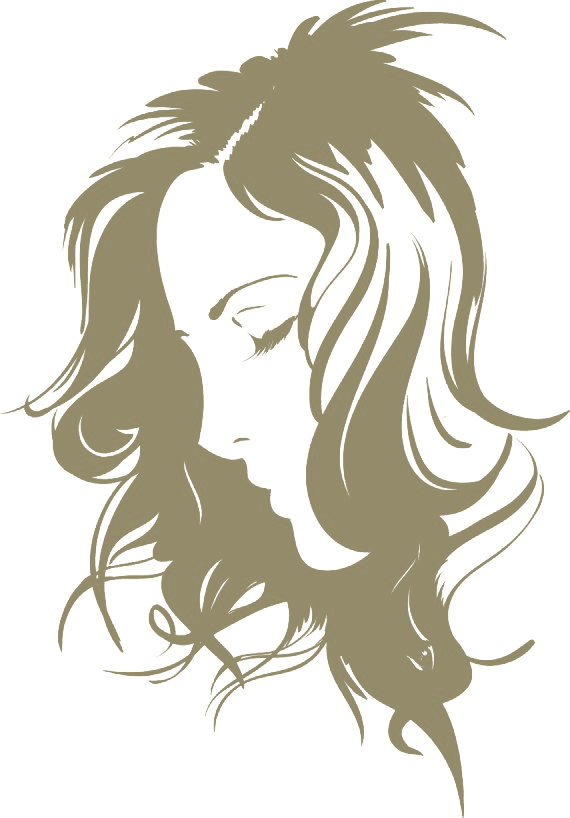
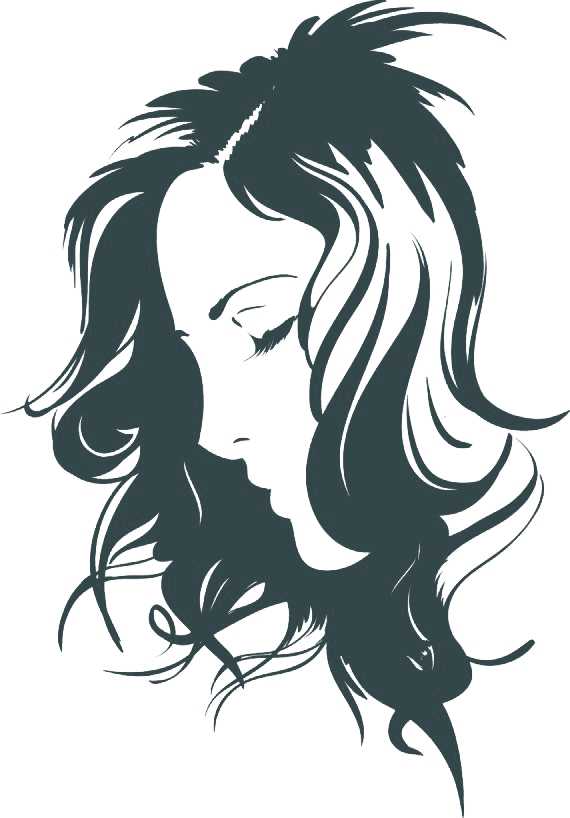
Main website version colors turned back

diff --git a/assets/css/color.css b/assets/css/color.css
@@ -1,11 +1,9 @@
 :root { 
 	/* Sets main color and gives an option to specify opacity */
 	/*--main-color: rgba( 94, 52, 52, var( --main-color-opacity, 1 ) ); */  
-	/*--main-color-rgb: 49, 68, 71; */
-	--main-color-rgb: 146, 138, 104; 
+	--main-color-rgb: 49, 68, 71; 
 	--main-color-opacity: 1; 
-	/*--secondary-color-rgb: 146, 138, 104; */ 
-	--secondary-color-rgb: 49, 68, 71;
+	--secondary-color-rgb: 146, 138, 104; 
 	--secondary-color-opacity: 1; 
 	--main-color: rgba( var( --main-color-rgb ), var( --main-color-opacity ) ); 
 	--secondary-color: rgba( var( --secondary-color-rgb ), var( --secondary-color-opacity ) ); 

diff --git a/assets/css/work.css b/assets/css/work.css
@@ -24,7 +24,7 @@
 	margin-left: var( --work-section-entry-list-column-gutter-x ); margin-top: var( --work-section-entry-list-column-gutter-y ); 
 	width: var( --work-section-entry-width ); padding-top: var( --work-section-entry-height ); 
 	position: relative; 
-	background-color: var( --main-color ); 
+	/*background-color: var( --section-main-color ); */ 
 	/*border-width: 1px; border-style: solid; border-color: var( --section-main-color ); */ 
 	overflow: hidden; 
 

diff --git a/assets/css/send-message.css b/assets/css/send-message.css
@@ -52,8 +52,8 @@
 	display: block; 
 	margin-top: 2em; 
 	width: 100%; height: 4em; 
-	background-color: var( --main-color ); 
-	color: var( --secondary-color );  
+	background-color: var( --section-main-color ); 
+	color: var( --section-secondary-color );  
 	border: none; 
 	font-family: inherit; font-size: inherit; 
 
